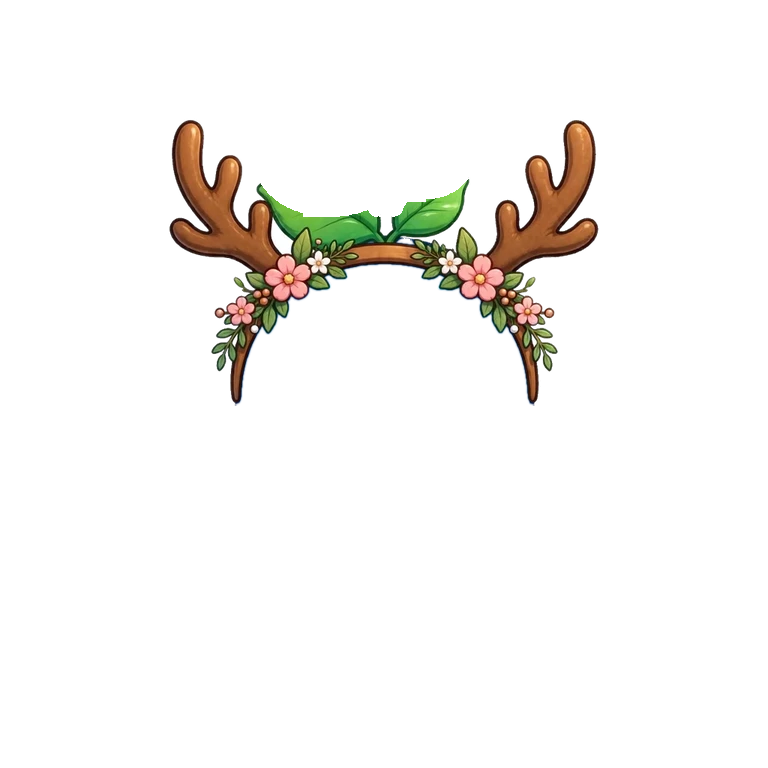
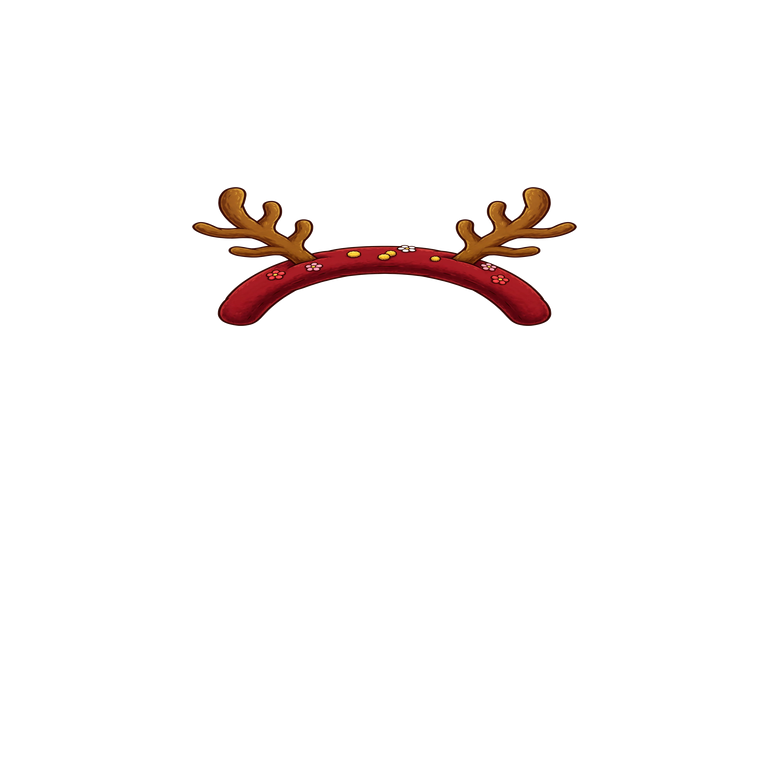
Pi: thay 6 món đội đầu lộ lá Muse vẽ lại (sừng tuần lộc nam/nữ, thể thao trắng, tai thỏ trắng/hồng, cài hoa mai) — lá vẫn đè lên
Claude-Session: https://claude.ai/code/session_0163KSZYdzHDud2uG42gs7mp

Changed region(s): [[0.2188, 0.1562, 0.7812, 0.5312]]

diff --git a/scripts/pi/build.py b/scripts/pi/build.py
@@ -96,7 +96,7 @@ for side in ("trai", "phai"):
 # 24/10 soát từng món: vệt lá cũ sót xa gốc lá (vùng rộng; KHÔNG áp chung vì vòng hoa có lá thật)
 # 24/10 tối (chủ dự án chốt): món Muse vẽ RIÊNG trên nền trong suốt → chỉ đặt đè lên, KHÔNG chạy bộ cắt lá / vụn (cắt nhầm mũ xanh lá)
 STANDALONE = {  # 25/10: mũ vẽ riêng đã duyệt ghép (mũ trùm đầu → ẩn lá)
-              "giangsinh-nam-dau01", "giangsinh-nam-dau02", "giangsinh-nam-dau03", "giangsinh-nam-dau04", "giangsinh-nu-dau01", "giangsinh-nu-dau04", "halloween-nam-dau02", "halloween-nam-dau05", "muadong-nam-dau01", "muadong-nam-dau02", "muadong-nam-dau03", "muadong-nam-dau05", "muadong-nu-dau01", "muadong-nu-dau03", "muadong-nu-dau04", "muahe-nam-dau02", "muahe-nam-dau03", "muahe-nu-dau01", "tet-nam-dau01", "tet-nam-dau02", "tet-nam-dau04", "tet-nu-dau01", "tet-nu-dau02", "tet-nu-dau03", "trungthu-nam-dau02", "trungthu-nam-dau04", "trungthu-nam-dau05", "trungthu-nu-dau05", "halloween-nam-dau01", "halloween-nu-dau01", "muahe-nu-dau04", "tet-nam-dau03", "trungthu-nam-dau01", "muahe-nam-dau01", "muahe-nu-dau02"}
+              "giangsinh-nam-dau01", "giangsinh-nam-dau02", "giangsinh-nam-dau03", "giangsinh-nam-dau04", "giangsinh-nu-dau01", "giangsinh-nu-dau04", "halloween-nam-dau02", "halloween-nam-dau05", "muadong-nam-dau01", "muadong-nam-dau02", "muadong-nam-dau03", "muadong-nam-dau05", "muadong-nu-dau01", "muadong-nu-dau03", "muadong-nu-dau04", "muahe-nam-dau02", "muahe-nam-dau03", "muahe-nu-dau01", "tet-nam-dau01", "tet-nam-dau02", "tet-nam-dau04", "tet-nu-dau01", "tet-nu-dau02", "tet-nu-dau03", "trungthu-nam-dau02", "trungthu-nam-dau04", "trungthu-nam-dau05", "trungthu-nu-dau05", "halloween-nam-dau01", "halloween-nu-dau01", "muahe-nu-dau04", "tet-nam-dau03", "trungthu-nam-dau01", "muahe-nam-dau01", "muahe-nu-dau02", "giangsinh-nam-dau05", "giangsinh-nu-dau02", "muahe-nam-dau04", "tet-nu-dau05", "trungthu-nam-dau03", "trungthu-nu-dau02"}
 SHOE_SCALE = {"tet-nu-giay02": 0.66}
 LEAF_WIDE = {"giangsinh-nam-dau05", "trungthu-nam-dau03", "muahe-nam-dau05", "trungthu-nu-dau02"}
 ARM_HIDE = {"giangsinh-nam-pk07": "trai", "muadong-nam-pk08": "trai", "muadong-nu-pk08": "trai", "muahe-nam-pk05": "trai",
